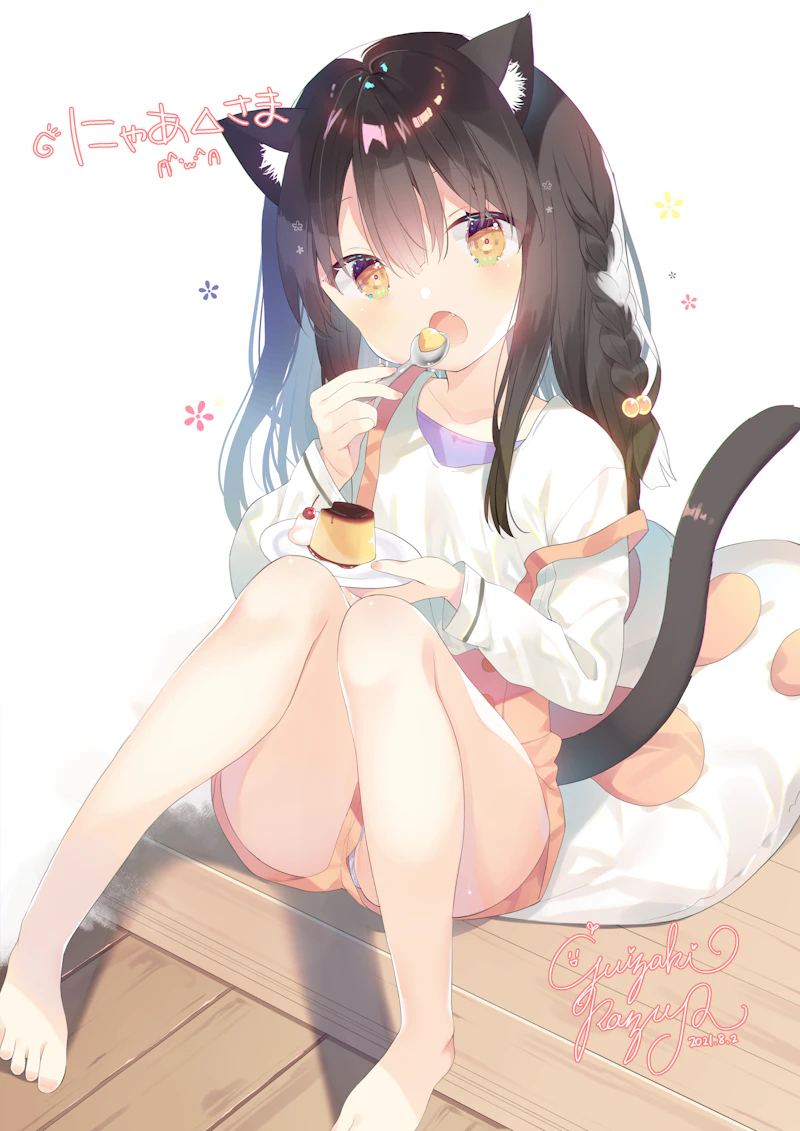
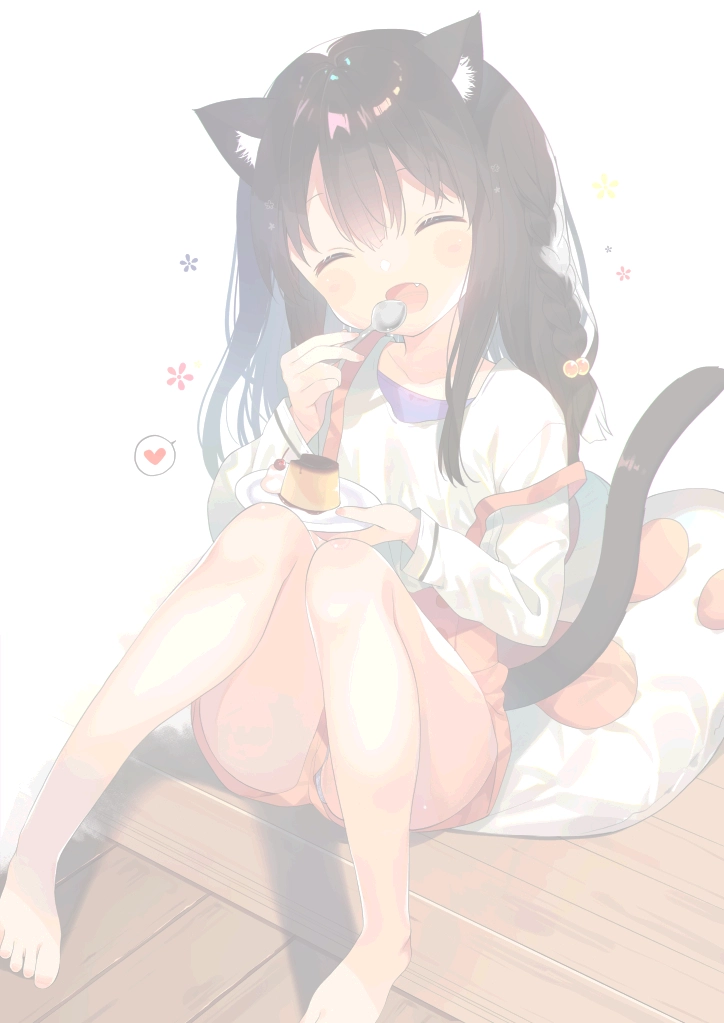
add spoiler

diff --git a/.vitepress/theme/style.css b/.vitepress/theme/style.css
@@ -143,7 +143,7 @@
 }
 
 #app {
-  background-image: url('/bg/TOUYA_e011c_spoiler.webp');
+  background-image: url('/bg/TOUYA_e011c_spoiler_doc.webp');
   background-repeat: no-repeat;
   background-position: center;
   background-size: cover;
